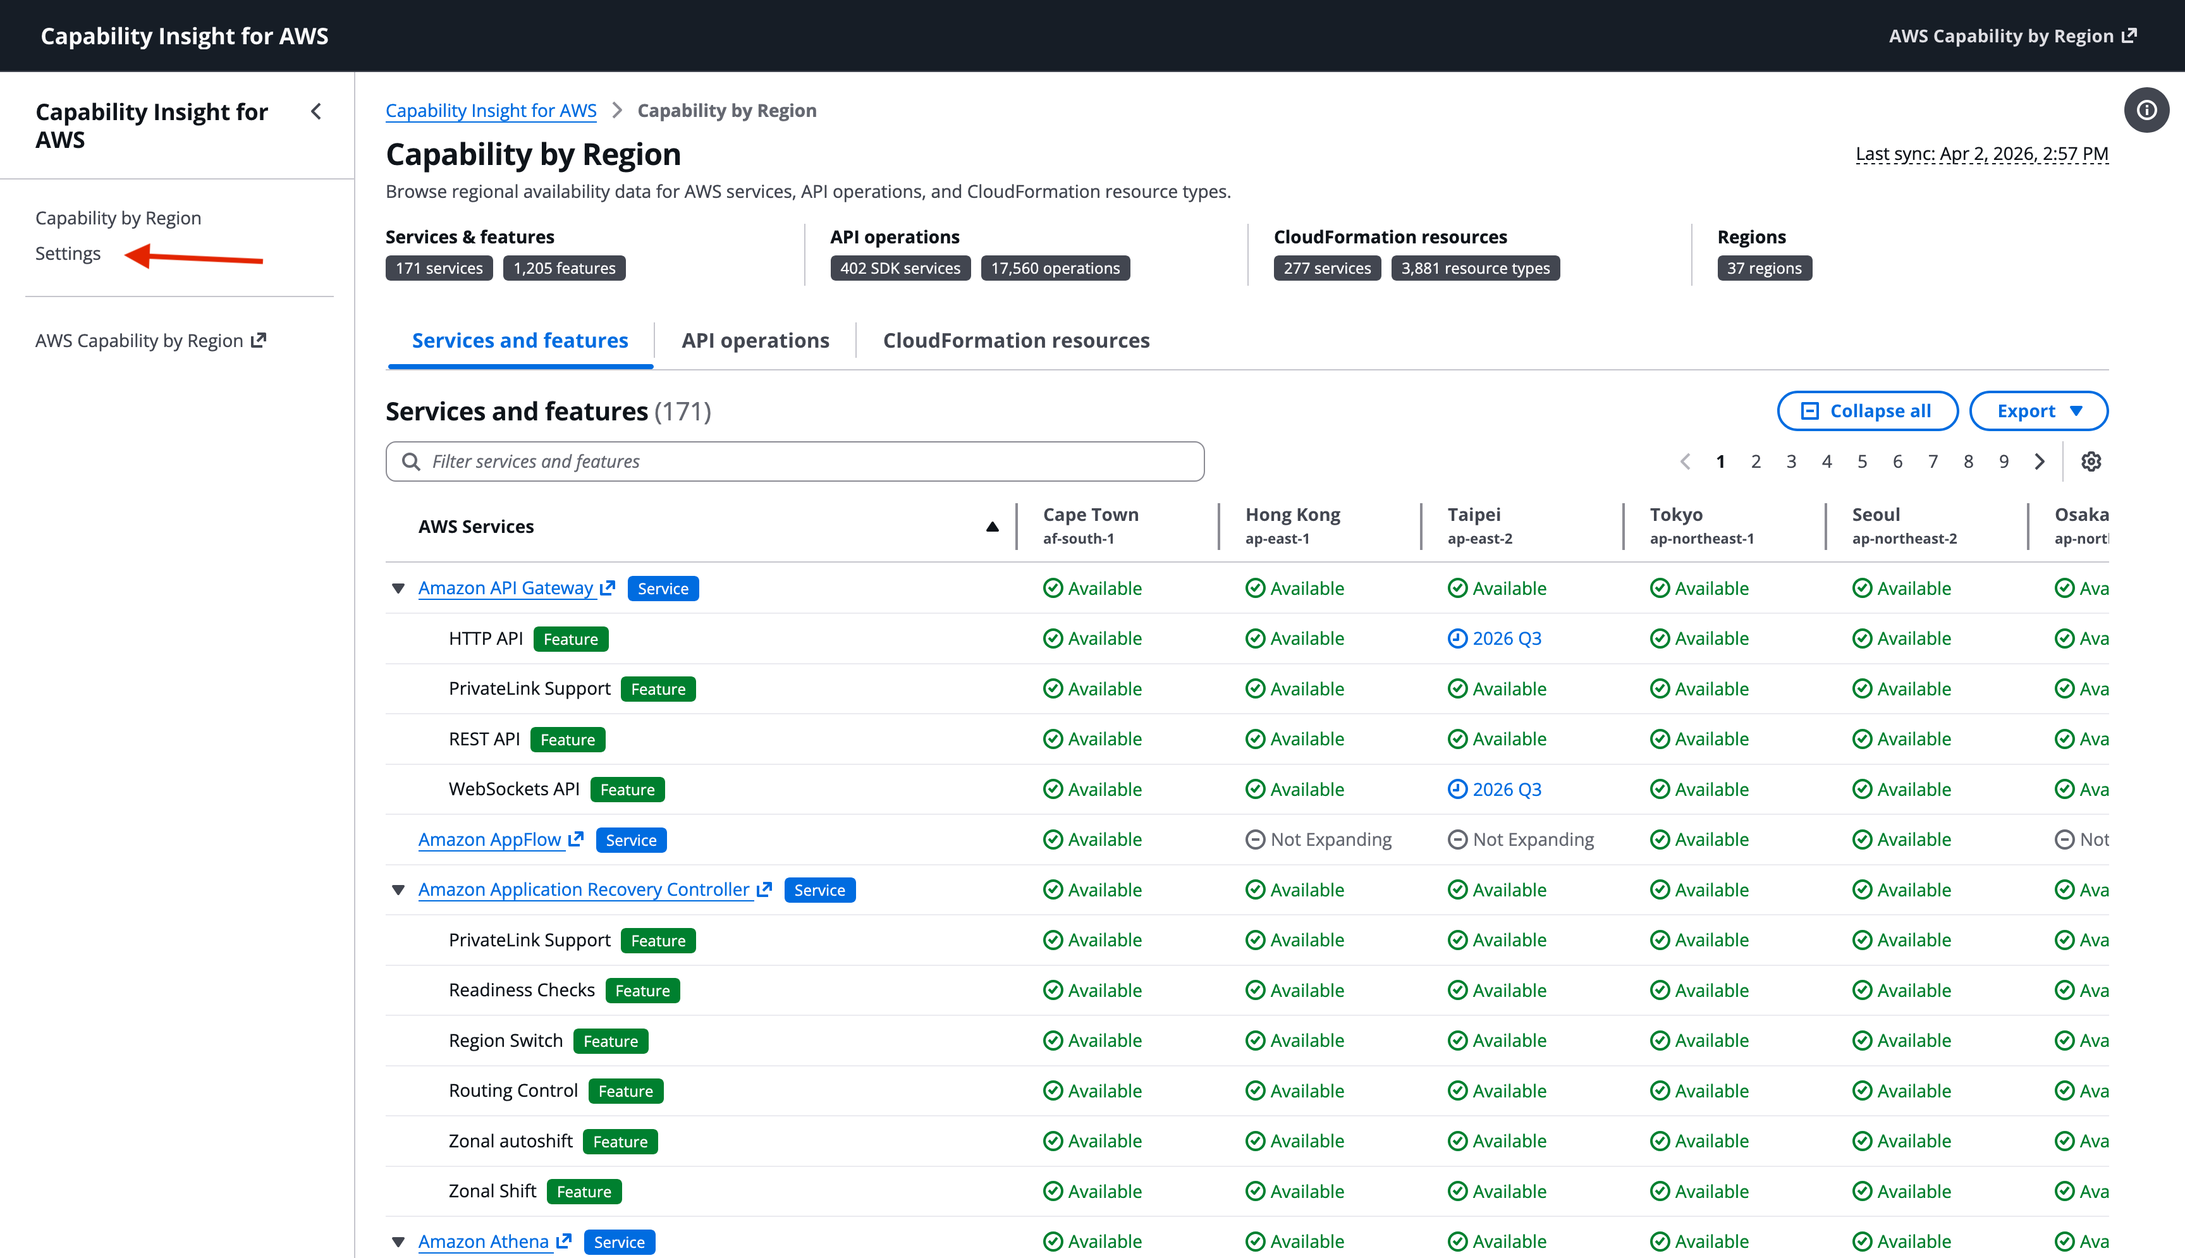
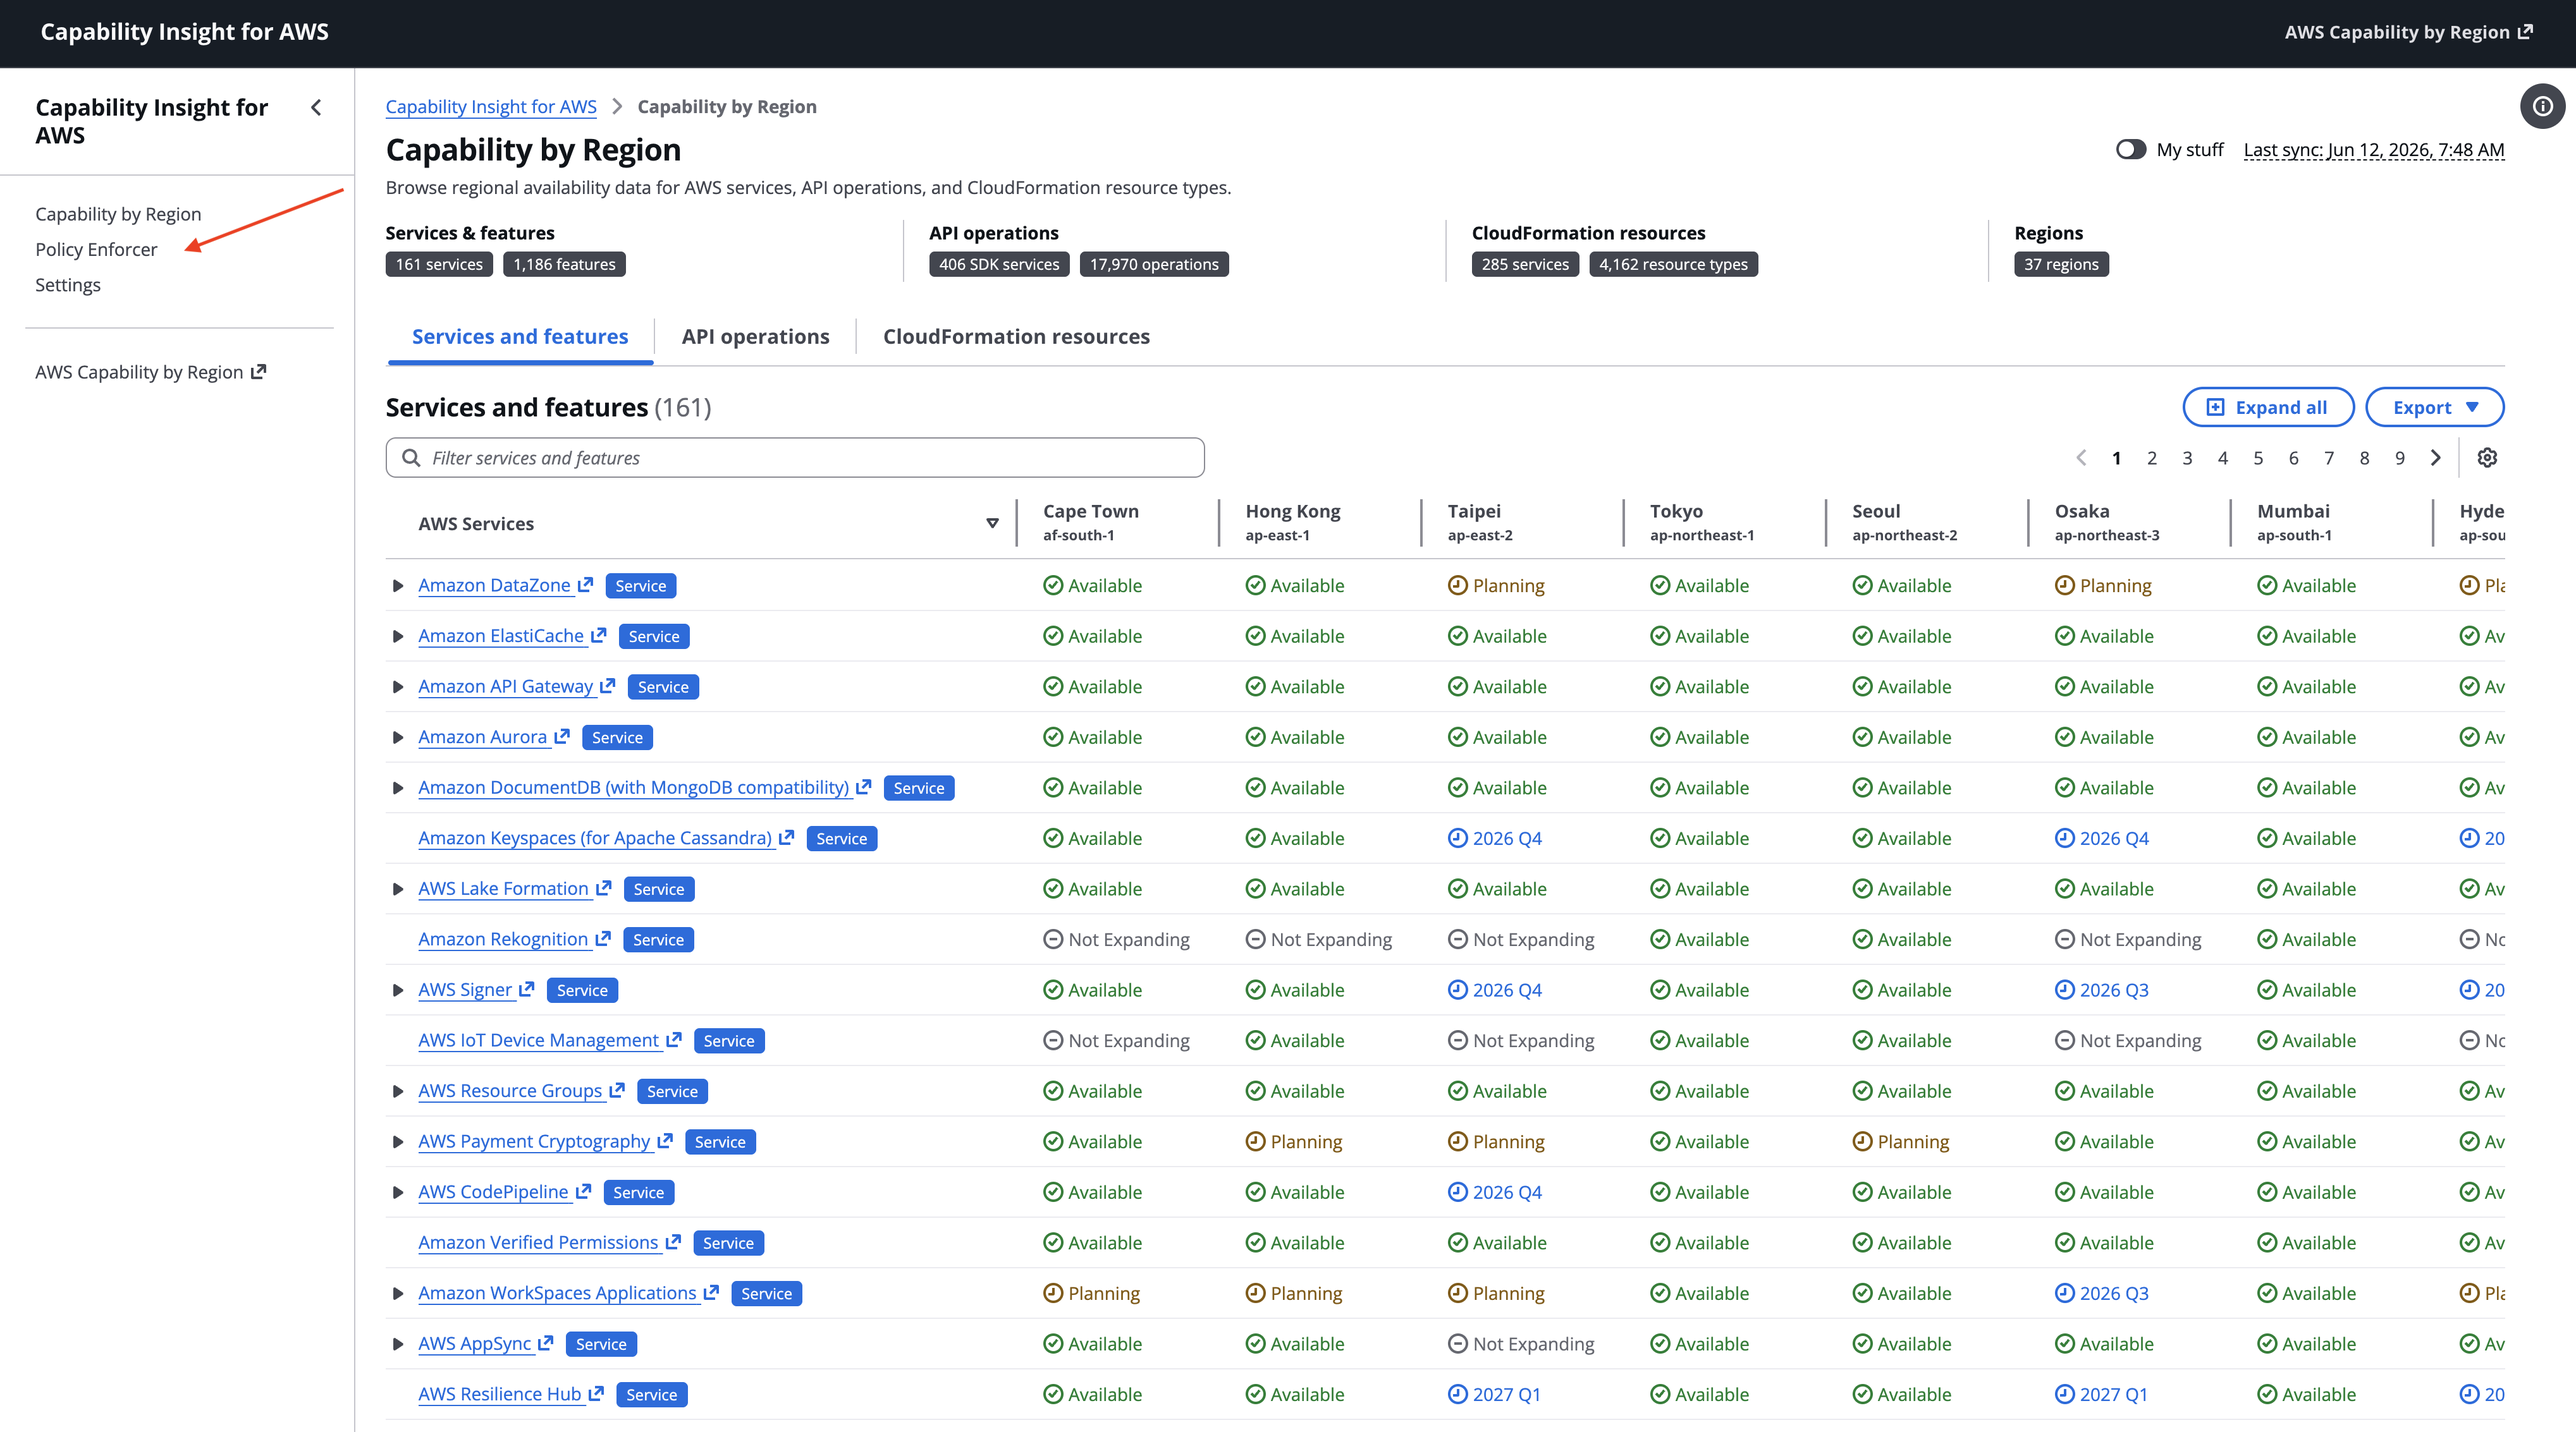
chore: sync private main with public capability-insights-for-aws (v1.2.0)
Brings private main up to date with the public capability-insights-for-aws
repo at v1.2.0. Additive only — no private content removed; Policy Enforcer
and all private work preserved.

Squashed sync of the public v1.1.0/v1.2.0 line:
- README: Policy Enforcer documentation (overview bullet, architecture
  diagram, deploy subsection, nav/settings text, user-guide section).
- Images: policy-enforcer-architecture.png + 3 Policy Enforcer user-guide
  screenshots; refreshed navigation/settings screenshots.
- Version bump to 1.2.0 across the workspace package.json files.
- iam-policy-applier.test.ts: dropped an unused `vi` import (identical tests).

diff --git a/source/lambda/services/policy-enforcer/iam-policy-applier.test.ts b/source/lambda/services/policy-enforcer/iam-policy-applier.test.ts
@@ -1,4 +1,4 @@
-import { describe, it, expect, beforeEach, vi } from 'vitest';
+import { describe, it, expect, beforeEach } from 'vitest';
 import { mockClient } from 'aws-sdk-client-mock';
 import { LambdaClient, InvokeCommand } from '@aws-sdk/client-lambda';
 import { IamPolicyApplier } from './iam-policy-applier';

diff --git a/README.md b/README.md
@@ -29,6 +29,7 @@ The dashboard covers:
 - **API operations** — individual API action availability per region for each AWS service
 - **CloudFormation resource types** — which resource types are supported in each region
 - **Personalized usage (opt-in)** — a "My Stuff" view that filters everything down to services, APIs, and resources actually used in your account, derived from CloudTrail and CloudFormation
+- **Regional governance policies (opt-in)** — generate IAM Managed Policies and Service Control Policies that deny capabilities not available in your chosen regions
 
 ![Dashboard overview](docs/images/dashboard-overview.png)
 
@@ -41,6 +42,10 @@ The solution deploys entirely within your VPC so that all data remains within yo
 The solution deploys a static website, REST API, and Lambda functions into your VPC. Personalization is provided by an opt-in second stack that adds a Step Functions state machine and analyzer Lambdas that read your account's CloudTrail logs and CloudFormation stacks.
 
 ![Usage Analysis architecture](docs/images/personalization-architecture.png)
+
+A separate opt-in stack adds regional governance: a REST API and Lambdas that generate IAM Managed Policies or Service Control Policies whose allow-lists reflect what's available in your chosen regions, derived from the same capability catalog the dashboard uses.
+
+![Policy Enforcer architecture](docs/images/policy-enforcer-architecture.png)
 
 For a detailed breakdown of all resources, see [Architecture](#architecture).
 
@@ -214,6 +219,27 @@ The scripted path (`npm run deploy -- --enable-usage-analysis`) automates all
 of this; prefer it unless you're restricted to AWS CLI + CloudFormation only.
 The "My stuff" toggle becomes usable once the first run finishes.
 
+#### Optional: Policy Enforcer (regional governance)
+
+The Policy Enforcer is an optional third stack
+(`template/policy-enforcer.template.json`, also in `build-assets.zip`) that
+generates IAM Managed Policies or Service Control Policies whose `NotAction`
+allow-list reflects the capabilities available in your chosen regions. The
+manual path:
+
+1. Deploy `CapabilityInsightsPolicyEnforcer` (params: `PrivateVpcId`,
+   `BackendSubnetId`, `WebsiteBucketName`, `DeploymentAssetsBucketName`,
+   `LambdaCodeZipPath`).
+2. Re-deploy the base stack with the new stack's outputs added as parameters
+   (`PolicyTableName`, `IamHelperLambdaName`, `PolicyRefreshLambdaName`).
+3. Open the dashboard's Policy Enforcer page (or `POST /policies`) to create
+   your first policy.
+
+The scripted path (`npm run deploy -- --enable-policy-enforcer`) automates all
+of this. The backend subnet must be able to reach DynamoDB via a Gateway VPC
+Endpoint — the Sample Environment stack provisions one for you, or add one to
+the route table when bringing your own VPC.
+
 ## Accessing the Website
 
 The website is hosted on S3 and accessible only from within your VPC. After deployment, navigate to:
@@ -260,7 +286,7 @@ Click the Export button to download the current view as JSON or CSV. This is use
 
 ### Navigation and Settings
 
-Open the side navigation to switch between the Capability by Region dashboard and Settings. The Settings page lets you trigger a manual data refresh and, when personalization is enabled, run usage analysis on demand.
+Open the side navigation to switch between the Capability by Region dashboard, the Policy Enforcer page (when deployed), and Settings. The Settings page lets you trigger a manual data refresh and, when the optional stacks are deployed, run usage analysis on demand and bulk-refresh every Policy Enforcer policy against the latest catalog.
 
 ![Navigation](docs/images/user-guide-navigation.png)
 
@@ -279,6 +305,24 @@ The CloudFormation tab also gains a **Stack** filter, letting you narrow resourc
 The personalized data is produced by analyzers that read your CloudTrail logs and active CloudFormation stacks, then written back to the website bucket as a personalized data set. The analysis runs on a daily schedule. You can also trigger it on demand from the Settings page using the **Run usage analysis** button. The page shows progress and result counts when the run completes; refresh the dashboard afterwards to see the updated personalization.
 
 ![Run usage analysis](docs/images/user-guide-run-analysis.png)
+
+### Generating regional governance policies (opt-in)
+
+If you deployed with `--enable-policy-enforcer`, the side navigation gains a **Policy Enforcer** entry. Use it to generate IAM Managed Policies or Service Control Policies that deny services and APIs unavailable in your target regions — useful when you want to confine workloads to a primary region without hand-curating allow-lists.
+
+![Policy Enforcer list](docs/images/user-guide-policy-enforcer-list.png)
+
+Click **Create policy** and provide a name, an optional description and tags, the target regions, a computation mode (intersection or union), and the policy type (IAM Managed Policy or Service Control Policy). Intersection produces an allow-list of capabilities available in _all_ selected regions; union produces one available in _any_ selected region.
+
+![Create Policy form](docs/images/user-guide-policy-enforcer-create.png)
+
+Once created, the policy detail page shows the configuration, refresh status, a preview of the generated allow-list, and the Policy ARNs of the resulting IAM Managed Policies. Service Control Policies that overflow a single 5,120-character document are split across multiple managed policies (Part 1, Part 2, etc.) up to the AWS Organizations limit of 5 per target — copy each document into the OU or account where you want to attach it.
+
+![Policy detail](docs/images/user-guide-policy-enforcer-detail.png)
+
+**Attaching the result is left to you**: for IAM-typed policies, attach `arn:...:policy/PolicyEnforcer-<name>` to the roles or users that should be governed; for SCP-typed policies, copy each document and attach it to the target OU or account in AWS Organizations.
+
+To re-run every policy against a fresh catalog (e.g. after a daily DataFetch update introduces new APIs), use **Refresh all policies** on the Settings page. Individual policies also refresh whenever you re-save them.
 
 ## Architecture
 
